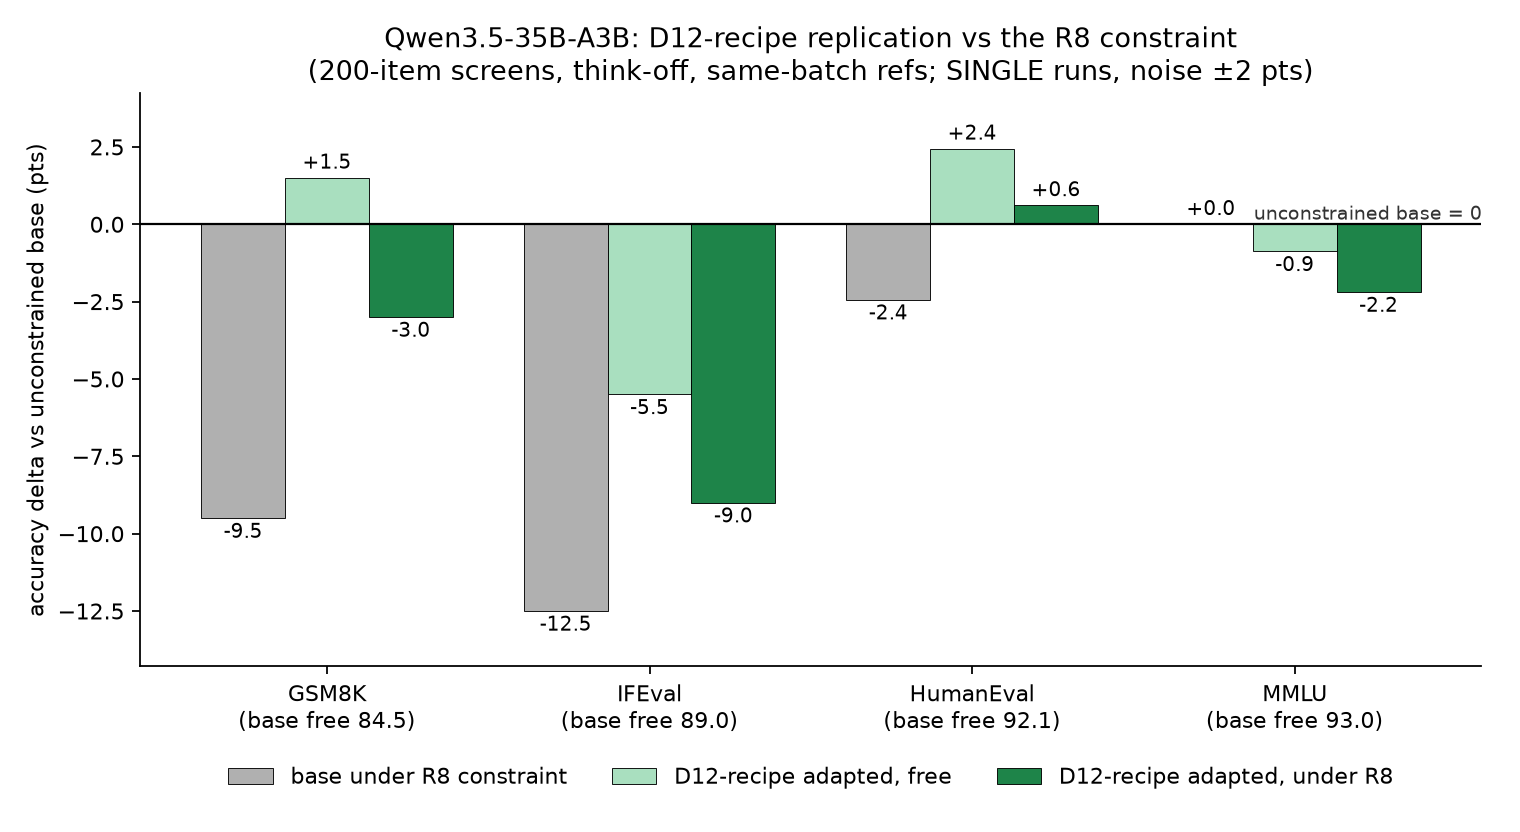
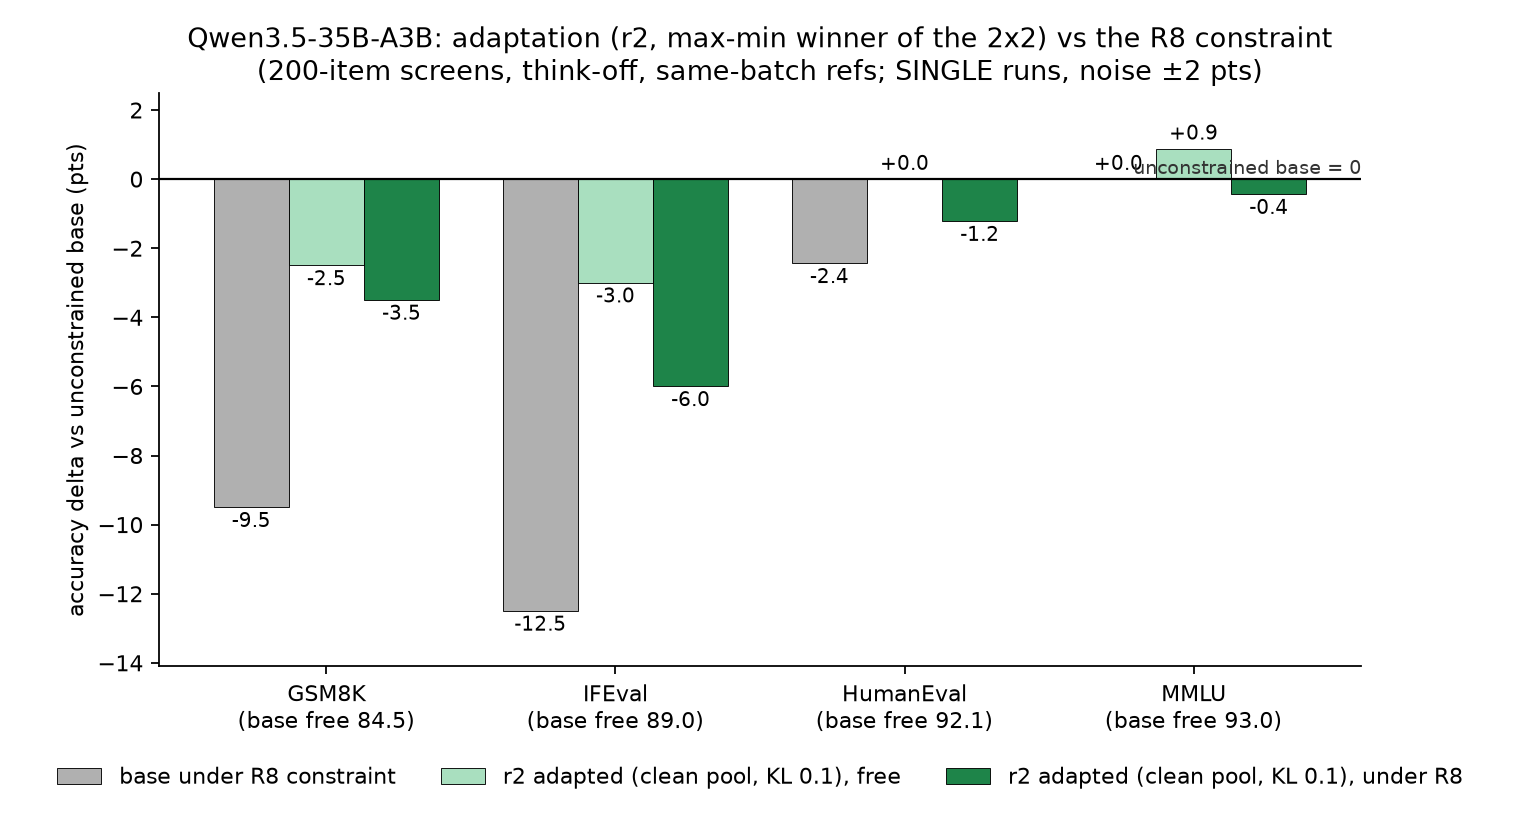
qwen attribution square in RESULTS (r2 = max-min winner, non-additive pool x KL interaction); figure updated to r2

diff --git a/analysis/residency/qwen_d12r_figure.py b/analysis/residency/qwen_d12r_figure.py
@@ -20,8 +20,8 @@ for r in csv.reader(open(f"{AB}/screening_genbench.csv")):
 DS = ["GSM8K", "IFEval", "HumanEval", "MMLU"]
 bf = {ds: V[("qwen35_val_base", "free", ds)] for ds in DS}
 series = [("base under R8 constraint", "qwen35_val_base", "R8", "#b0b0b0"),
-          ("D12-recipe adapted, free", "qwen35_ce_d12r", "free", "#a9dfbf"),
-          ("D12-recipe adapted, under R8", "qwen35_ce_d12r", "R8", "#1e8449")]
+          ("r2 adapted (clean pool, KL 0.1), free", "qwen35_ce_d12r2", "free", "#a9dfbf"),
+          ("r2 adapted (clean pool, KL 0.1), under R8", "qwen35_ce_d12r2", "R8", "#1e8449")]
 
 fig, ax = plt.subplots(figsize=(9.5, 5.2))
 W = 0.26
@@ -39,7 +39,7 @@ ax.text(len(DS) - 0.42, 0.15, "unconstrained base = 0", fontsize=8.5,
 ax.set_xticks(range(len(DS)))
 ax.set_xticklabels([f"{ds}\n(base free {bf[ds]:.1f})" for ds in DS])
 ax.set_ylabel("accuracy delta vs unconstrained base (pts)")
-ax.set_title("Qwen3.5-35B-A3B: D12-recipe replication vs the R8 constraint\n"
+ax.set_title("Qwen3.5-35B-A3B: adaptation (r2, max-min winner of the 2x2) vs the R8 constraint\n"
              "(200-item screens, think-off, same-batch refs; SINGLE runs, noise ±2 pts)")
 ax.legend(frameon=False, loc="upper center", bbox_to_anchor=(0.5, -0.14), ncol=3)
 ax.spines[["top", "right"]].set_visible(False)

diff --git a/results/ablations/gemma_adapt_RESULTS.md b/results/ablations/gemma_adapt_RESULTS.md
@@ -89,10 +89,31 @@ weights on an 80GB card: expert-LoRA r8 (capacity-matched to gemma's 1.4B), page
 8-bit Adam, HF stack (unsloth's batched constrained path drifts 4.9% on qwen where
 plain HF shows 0.0–0.3%), chunked-checkpointed CE, per-row KL forward, cuDNN SDP off.
 
+## Qwen attribution square (2026-08-18)
+
+Follow-ups on the replication (records qwen35_ce_d12r{,2,3,4} + duals; single
+screening runs, ±2pt noise). Fraction-matched arm first: at R16 (6.25% resident,
+gemma's R8 fraction) the r1 candidate reaches base-free parity on GSM8K/HE/MMLU —
+the R8 gap is mostly constraint tightness (R8-of-256 = 3.1% resident). The IFEval
+regression is arm-independent (training artifact). A 2×2 {old/clean pool} ×
+{KL 0.05/0.1} then attributed it (worst cell per config, all vs base-free):
+
+- r1 old+.05: worst −9.0 (R8 IFEval); best math/HE (free G+1.5 H+2.4)
+- **r2 clean+.1: worst −6.0 — max-min winner; free arm ~repaired (I−3.0, M+0.9)**
+- r3 clean+.05: worst −8.0
+- r4 old+.1: worst −9.5; best constrained math (R8 G−2.0)
+
+Effects are NOT additive: the KL-0.1 IFEval/MMLU repair only materialises on the
+clean (truncation-free) pool; the clean pool's dropped long rows cost 2–4 GSM8K
+points that only the old pool recovers. Recommendation: r2 for balanced serving,
+r1/r4 when constrained math dominates. Qwen-at-R8 remains a strictly harder
+problem than gemma-at-R8; fraction-matched comparisons are the fair headline.
+
 ## Open
 
-- Free-arm MMLU cost (−2.8): untested lever = KL bracket 0.03/0.07.
-- Qwen free-arm IFEval regression (−5.5): unexplained; candidate suspects are the
-  r8/8-bit accommodations or qwen's larger baseline constraint damage.
-- Think-on variant: needs ≥6k generation cap + training-memory rework (35.7% of
-  think responses cap at 3072 on this pool).
+- Free-arm MMLU cost on gemma (−2.8): untested lever = KL bracket 0.03/0.07.
+- Qwen IFEval: even r2 sits −3.0/−6.0 below base-free; next lever is a pool
+  regen keeping long rows AND zero truncation (cap ≥4k + the chunked-head
+  trainer, which now has the memory headroom for it).
+- Think-on variant: needs ≥6k generation cap; the chunked-head rewrite removed
+  the main memory blocker (81→72.8GB watermark).
